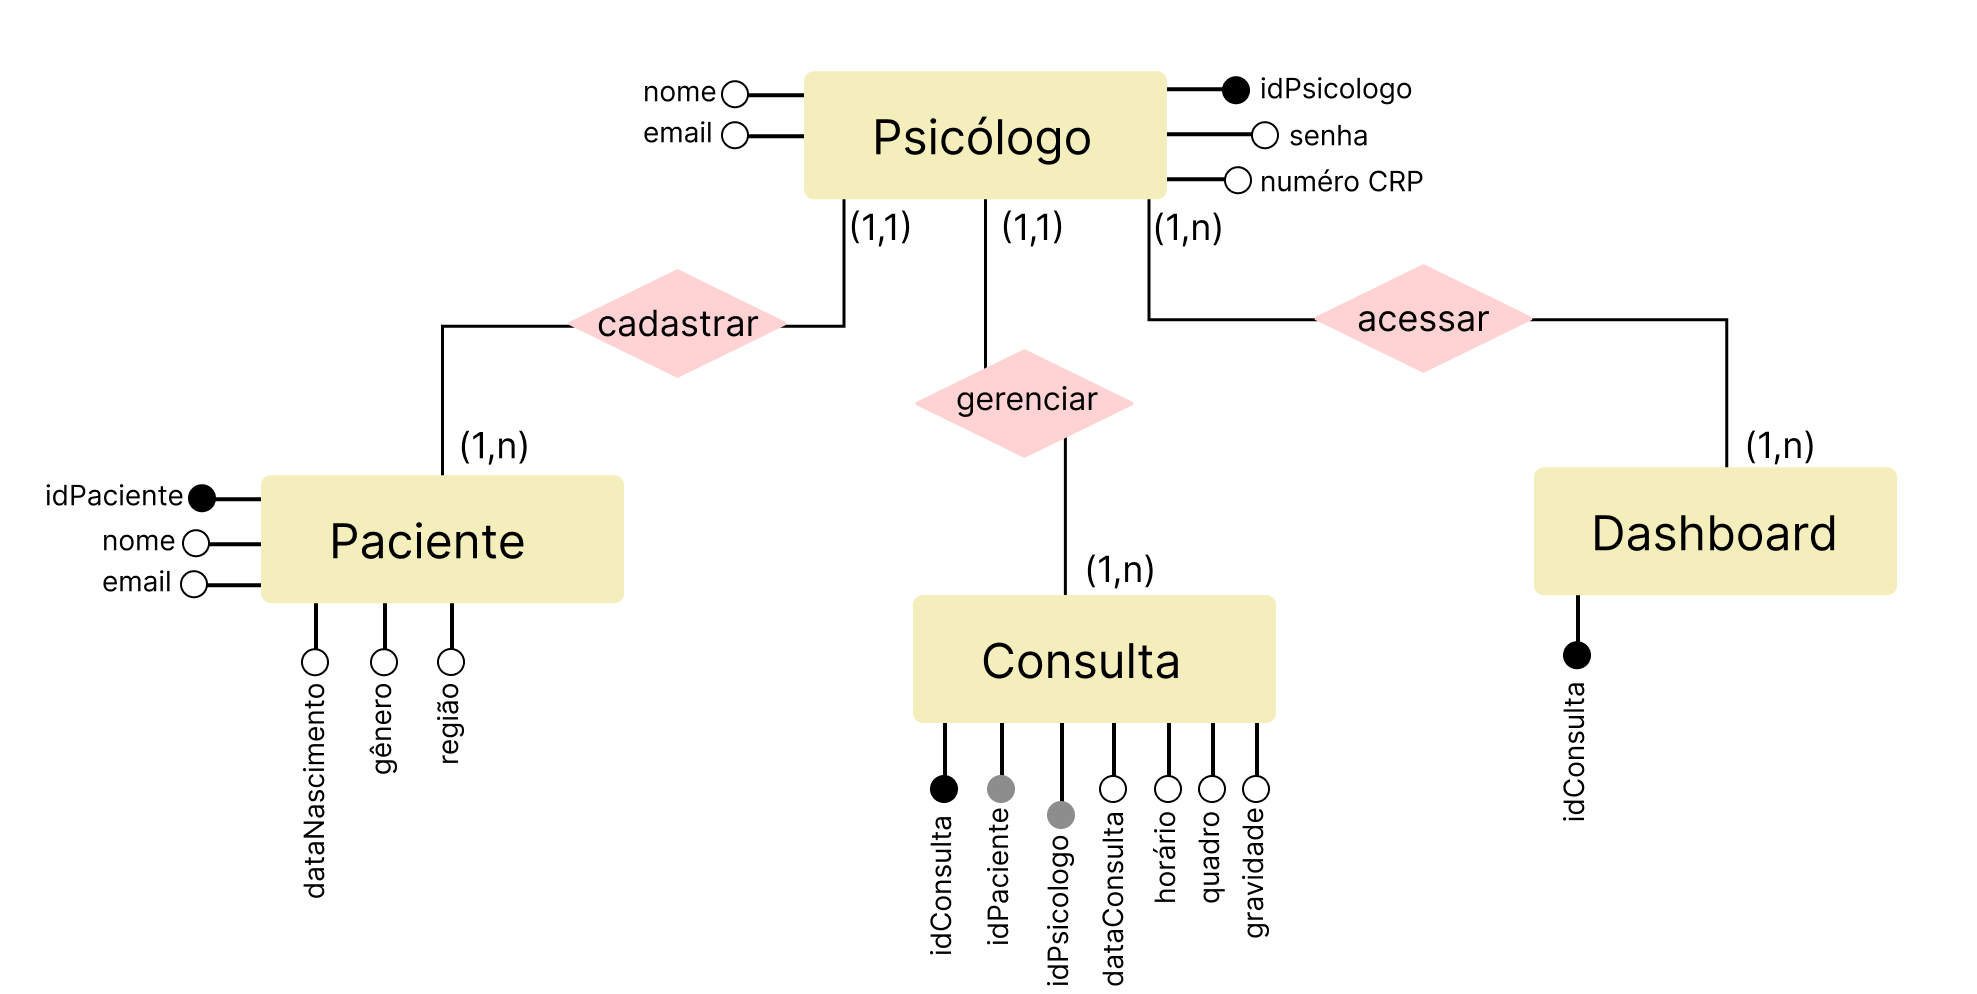
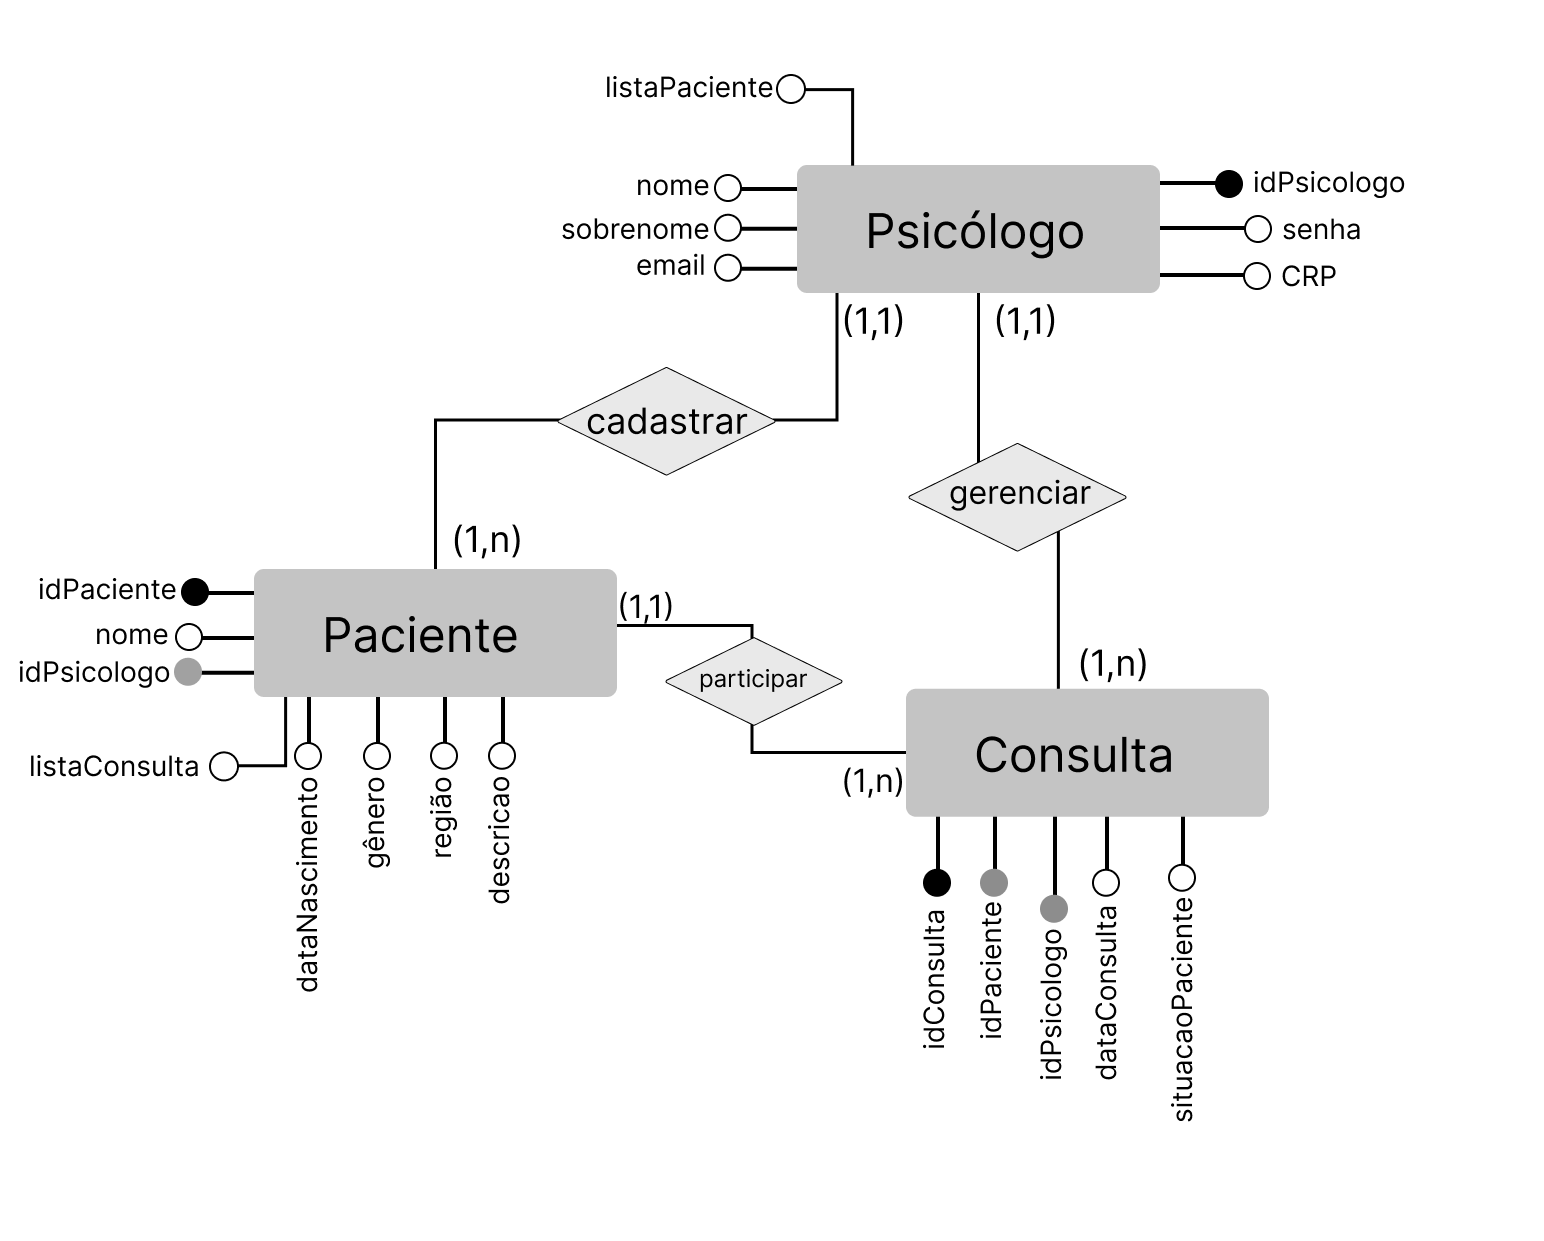
docs_att_gh-pages #71

Changed region(s): [[0.0, 0.4054, 0.9637, 0.998], [0.2176, 0.0624, 0.9016, 0.4678]]

diff --git a/docs/wiki/Documents/Documento_de_Arquitetura.md b/docs/wiki/Documents/Documento_de_Arquitetura.md
@@ -12,8 +12,11 @@
 | 1.1.2 | 09/03/2021  | Nilvan Peres | Atualização link's sumários |
 | 1.1.3 | 10/03/2021  |Lucas Lima | Adição do MTV ao Padrão Arquitetural |
 | 1.2.0 | 14/03/2021  | Antônio | Atualização geral do documento |  
-| 1.2.1 | 15/03/2021  | Davi | Atualização do topico 5 |
-| 1.2.2 | 16/03/2021  | Lucas | Atualização no tópico 2.2 | 
+| 1.2.1 | 15/03/2021  | Davi | Atualização do topico 5 | 
+| 1.2.2 | 16/03/2021  | Lucas Lima | Atualização no tópico 2.2 |
+| 1.2.3 | 23/03/2021  | Lucas Lima | Adição dos tópicos 6, 7 e 8 |
+| 1.2.4 | 24/03/2021  | Arthur Talles | Adição do tópico 2.3 |
+| 1.2.5 | 25/03/2021  | Davi Matheus | Mudanças no diagrama de Casos de Uso |
 ## Sumário
 [1 - Introdução](#1---introdução)
 * [1.1 - Objetivo](#1.1---objetivo)
@@ -25,6 +28,7 @@
 
 * [2.1 - Padrão Arquitetural](###2.1---Padrão-Arquitetural)
 * [2.2 - Tecnologias](#2.2---Tecnologias)
+* [2.3 - Diagrama de Pacotes](#2.3---Diagrama-de-Pacote)
 
 [3 - Metas e Restrições da Arquitetura](#3---Metas-e-Restrições-da-Arquitetura)
 
@@ -42,6 +46,14 @@
 * [5.1 - Diagrama de caso de Uso](#5.1---Diagrama-de-caso-de-Uso)
 * [5.2 - Atores de Caso de Uso](#5.2---Atores-de-Caso-de-Uso)
 * [5.3 - Descrições de Caso de Uso](#5.3---Descrições-de-Caso-de-Uso)
+
+[ 6 - Visão Lógica](#6---Visão-Lógica)
+
+[ 7 - Tamanho e Desempenho](#7---Tamanho-e-Desempenho)
+* [7.1 - Tamanho](#7.1---Tamanho)
+* [7.2 - Desempenho](#7.2---Desempenho)
+
+[ 8 - Qualidade](#8---Qualidade)
 ## 1 - Introdução
 
 ### 1.1 - Objetivo 
@@ -91,6 +103,7 @@ O Django utiliza o MTV (Modelo de template e visão). Toda esta arquitetura é i
 * Template: Páginas para visualização de dados. Normalmente, é aqui que fica o HTML que será renderizado nos navegadores;
 * View: Lógica de negócio. É aqui que determinamos o que irá acontecer em nosso projeto.
 
+
 ### 2.2 - Tecnologias
 |tecnologias | descrição |
 | ------------------- | ------------------- |
@@ -106,6 +119,12 @@ O Django utiliza o MTV (Modelo de template e visão). Toda esta arquitetura é i
 |CSS | Linguagem para estilização de uma interface web |
 |JavaScript |  Alia-se no desenvolvimento do frontend junto com HTML e CSS|
 |mySQL | Banco de dados relacional, será usado para gerir a base de dados|
+
+### 2.3 Diagrama de Pacotes
+
+<p align="center">
+<a href="https://ibb.co/W6dqcDk"><img src="https://i.ibb.co/KXQR9N2/Diagrama-Pacote-Back-end-e-Front-end.png" alt="Diagrama-Pacote-Back-end-e-Front-end" border="0"></a>
+</p>
 
 ### 3 - Metas e Restrições da Arquitetura
 
@@ -128,60 +147,51 @@ O Django utiliza o MTV (Modelo de template e visão). Toda esta arquitetura é i
 * ### Psicólogo 
 |Atributos| Propriedade | Tipo | Descrição|
 |-----|-----|------|-----|
-| idPsicologo | Chave primária obrigatória | String | Identificação do Psicólogo |
+| idPsicologo | Chave primária obrigatória | Integer | Identificação do Psicólogo |
 | nome | Obrigatório | String | Nome do Psicólogo |
 | email | Obrigatório | String | Email do Psicólogo |
-| nCRP | Obrigatório | String | Número do Conselho Regional do Psicólogo |
+| nCRP | Obrigatório | Integer | Número do Conselho Regional do Psicólogo |
 | senha | Obrigatório | String | Senha de login |
+| listaPacientes | Optativo | Paciente | Lista de pacientes do psicólogo|
 
 * ### Paciente
 |Atributos| Propriedade | Tipo | Descrição|
 |-----|-----|------|-----|
-| idPaciente | Chave primária obrigatória | String | Identificação do Paciente |
-| nome | Obrigatório | String | Nome do Paciente |
-| email | Obrigatório | String | Email do Paciente |
-| nascimento | Obrigatório | String | Nascimento do Paciente |
-| genero | Obrigatório | String | Gênero do Paciente |
-| regiao | Obrigatório | String | Região onde mora o Paciente |
+| idPaciente | Chave primária obrigatória | Integer | Identificação do paciente |
+| idPsicologo | Chave estrangeira obrigatória | Integer | Identificação do psicólogo |
+| nome | Obrigatório | String | Nome do paciente |
+| nascimento | Obrigatório | Date | Data de nascimento do paciente |
+| genero | Obrigatório | Char | Gênero do paciente |
+| regiao | Obrigatório | String | Região onde mora o paciente |
+| descricao | Optativo | String | Descrição do caso do paciente |
+| listaConsulta | Optativo | Consulta | Lista das consultas do paciente |
+
 
 * ### Consulta
 |Atributos| Propriedade | Tipo | Descrição|
 |-----|-----|------|-----|
-| idConsulta | Chave primária obrigatória | String | Identificação da Consulta |
-| idPaciente | Chave estrangeira obrigatória | String | Identificação do Paciente |
-| idPsicologo | Chave estrangeira obrigatória | String | Identificação do Psicólogo |
+| idConsulta | Chave primária obrigatória | Integer | Identificação da Consulta |
+| idPaciente | Chave estrangeira obrigatória | Integer | Identificação do Paciente |
+| idPsicologo | Chave estrangeira obrigatória | Integer | Identificação do Psicólogo |
 | dataConsulta| Obrigatório | String| Data que ocorre a consulta |
-| horário |Obrigatório | String | Horário que ocorre a consulta |
-| quadro |Obrigatório | String | Quadro geral do problema do paciente na consulta |
-| gravidade |Obrigatório | String | Gravidade desse problema |
-
-* ### Dashboard
-|Atributos| Propriedade | Tipo | Descrição|
-|-----|-----|------|-----|
-| idDashboard | Chave primária obrigatória | String | Identificação da Dashboard |
-
-
+| situacaoPaciente | Obrigatório | String | Situação mental do paciente problema |
 ### 4.1.2 - Relacionamentos
 
 **Psicólogo** -- cadastra/exclui -- **Paciente**: Um psicólogo cadastra ou exclui os pacientes. (Cardinalidade 1:N)
 
 **Psicólogo** -- cadastra/exclui -- **Psicólogo**: Um psicólogo realiza seu próprio cadastro e eventual exclusão do mesmo. (Cardinalidade 1:1)
 
-**Psicólogo** -- gera -- **Consulta**: Psicólogo gera laudo de uma consulta com paciente. (Cardinalidade 1:N)
+**Psicólogo** -- cadastra/exclui -- **Consulta**: Psicólogo cadastra ou exclui consultas de um paciente. (Cardinalidade 1:N)
 
 **Psicólogo** -- insere -- **Paciente**: Psicólogo insere novos dados de uma consulta com paciente. (Cardinalidade 1:N)
 
-**Psicólogo** -- acessa -- **Consulta**: Psicólogo acessa laudo de uma consulta com paciente. (Cardinalidade 1:N)
+**Psicólogo** -- acessa -- **Consulta**: Psicólogo altera dados de uma consulta com paciente. (Cardinalidade 1:N)
 
 **Psicólogo** -- acessa -- **Paciente**: Psicólogo acessa seus pacientes e respectivos dados. (Cardinalidade 1:N)
-
-**Psicólogo** -- acessa -- **Dashboard**: Psicólogo acessa Dashboard de monitoramento. (Cardinalidade 1:N)
-
-
 ### 4.2 - Diagrama Entidade Relacionamento (DER)
 
 <p align="center">
-<a href="https://ibb.co/1QWxHp3"><img src="https://i.ibb.co/PjH8BbR/DER.png" alt="DER" border="0"></a>	
+<a <a href="https://ibb.co/3d3jdGj"><img src="https://i.ibb.co/xLkBLPB/DER.png" alt="DER" border="0" width="60%" height="60%" ></a>	
 </p>
 
 
@@ -190,7 +200,7 @@ O Django utiliza o MTV (Modelo de template e visão). Toda esta arquitetura é i
 ### 5.1 - Diagrama de caso de Uso
 
 <p align="center">
-<a href="https://ibb.co/L016ZBk"><img src="https://i.ibb.co/zmZb4Cn/Caso-de-uso.png" alt="Caso-de-uso" border="0"></a>
+<a href="https://ibb.co/Hz4fdDh"><img src="https://i.ibb.co/DCWHpDr/Caso-De-Uso.png" alt="Caso-De-Uso" border="0" width="80%" height="80%" ></a>
 </p>
 
 
@@ -205,12 +215,40 @@ O Django utiliza o MTV (Modelo de template e visão). Toda esta arquitetura é i
 
 |Casos de uso| Ator | Descrição|
 |-----|-----|------|
-| UC01 - Efeituar Login | Psicologo | O psicologo poderá realizar seu cadastro e dar login e logout na plataforma quando quiser |
-| UC02 - Cadastrar/Exlcluir paciente | Psicologo | O psicólogo poderá acessar cadastrar ou exluir um paciente em específico |
-| UC02 - Alterar perfil Psicologo | Psicólogo | O psicologo poderá alterar seu perfil quando desejar |
-| UC03 - Alterar perfil Paciente| Psicologo | O psicologo poderá alterar o perfil dos seus pacientes quando desejar |
-| UC04 - Mostrar pacientes cadastrados | Psicologo |  O psicólogo poderá acessar e visualizar as informações de um paciente em específico   |
-| UC04 - Acessar laudo dos pacientes | Psicologo | O psicólogo poderá acessar os laudos que ele preencher |
-| UC05 - Adicionar novos laudos a pacientes | Psicologo | O psicólogo pode inserir os laudos dos seus pacientes |
-| UC06 - Acessar Dashboards|  Psicologo | O psicólogo poderá ver os dashbords de saúde mental disponiblizados pela comunidade |
-| UC07 - Acessso aos quadros evolutivos | O psicólogo poderá acessar o quadro evolutivo de um paciente específico | 
+| UC01 - Editar Dados da Conta | Psicologo | O psicologo poderá realizar seu cadastro e dar login e logout na plataforma quando quiser |
+| UC02 - Acesar a Pagina do Psicologo | Psicologo | O psicologo poderá acessar a pagina cadastra, fazer o login e realizar as determinadas funções presentes no site.
+| UC03 - Cadastrar/Exlcluir paciente | Psicologo | O psicólogo poderá acessar cadastrar ou exluir um paciente em específico |
+| UC04 - Alterar dados do  Paciente| Psicologo | O psicologo poderá alterar o perfil dos seus pacientes quando desejar |
+| UC05 - listar Pacientes | Psicologo |  O psicólogo poderá acessar e visualizar as informações de um paciente em específico   |
+| UC06 - Acessar consulta dos pacientes | Psicologo | O psicólogo poderá acessar as consultas que ele preencher |
+| UC07 - Alterar relatorio Consulta | Psicologo | O psicólogo podera alterar os dados da consulta |
+| UC08 - Acessar Dashboards |  Psicologo | O psicólogo poderá ver os dashbords de saúde mental disponiblizados pela comunidade |
+
+## 6 - Visão Lógica
+
+O psicólogo acessa o site através de um computador ou celular, realiza seu cadastro com CRP, faz o login, cadastra seus pacientes e atualiza os dados. Após ter os dados atualizados com as informações adquiridas na consulta, são gerados relatórios com infográficos.\
+Os dados do psicólogo e dos clientes serão armazenados no banco de dados. No momento em que o psicólogo atualizar os dados, automaticamente os infográficos serão gerados e disponibilizados para que sejam vistos. 
+
+## 7 - Tamanho e Desempenho
+### 7.1 - Tamanho
+O software é feito para rodar diretamente no navegador, sem qualquer tipo de instalação fora o próprio navegador.
+
+### 7.2 - Desempenho
+Basicamente todas as ações realizadas no front-end enviam requisições ao back-end para serem feitas. Por exemplo, no cadastro do psicólogo é feita uma requisição ao back-end para guardar os dados no banco de dados e utilizar posteriormente. Não há requisitos computacionais para que o site seja aberto.
+
+## 8 - Qualidade
+O site terá uma interface simples, facilitando o acesso para qualquer pessoa, mesmo que ela não tenha muita facilidade com tecnologia, e garantindo a plena funcionalidade proposta. Nada do back-end será mostrado ao psicólogo, apenas a parte inteligível do front-end.
+
+## Referências 
+
+>  Django Documentation. Disponivel em: < [https://docs.djangoproject.com/en/3.1/](https://docs.djangoproject.com/en/3.1/) > Acesso em: 17 de Fevereiro de 2021 
+
+> React Documentation. Disponivel em: < [https://pt-br.reactjs.org/docs/getting-started.html](https://pt-br.reactjs.org/docs/getting-started.html) > Acesso em: 17 de Fevereiro de 2021
+
+> About PostgreSQL. Disponível em: < [https://www.postgresql.org/about/](https://www.postgresql.org/about/) > Acesso em 17 de Março de 2021
+
+> Documento de arquitetura Acácia. Disponível em: < [https://fga-eps-mds.github.io/2019.2-Acacia/#/architecture_document](https://fga-eps-mds.github.io/2019.2-Acacia/#/architecture_document) > Acesso em: 25 de Fevereiro de 2021
+
+> Documento de arquitetura ArBC. Disponível em: < [ https://jlucassr.github.io/ArBC-Pages/mds/Documento_de_arquitetura/ ](https://jlucassr.github.io/ArBC-Pages/mds/Documento_de_arquitetura/) > Acesso em: 25 de Fevereiro de 2021
+
+> Quickstart - Django REST framework. Disponivel em: < [https://www.django-rest-framework.org/tutorial/quickstart/](https://www.django-rest-framework.org/tutorial/quickstart/) > acesso em: 25 de Fevereiro de 2021

diff --git a/docs/assets/images/Roadmaps/roadmap_DevTeam.md b/docs/assets/images/Roadmaps/roadmap_DevTeam.md
@@ -1,0 +1,21 @@
+## Histórico de revisão
+
+|       Data         |versão                       |Descrição                        |Autor|
+|----------------|-------------------------------|-----------------------------|---------------------|
+|20/02/2021|1.0.0           |Criação do roadmap Devops              |Davi Matheus|
+
+## Realese 01
+
+- Estudar Agile/Scrum.
+- Estudar Open Source
+- Escolha e configuração de tecnologias e ferramentas para o projeto.
+- atualização do documento de arquitetura.
+- Estudar e escolher melhores ferramentas para uma integração continua.
+- Treinamento e implementação do docker.
+- Analisar e Implementar Possíveis ideias de RoadMaps
+- Organizar e implementar front/back
+- Protitpo de Alta/Baixa Fidelidade
+- Estudo das Ferramentes/Framework Back/Front
+- Atualização do README
+
+<p align = "center"> &emsp;&emsp; <img src="../assets/images/RoadMap_DevTeam.png" width="435" height="776"/> </p>

diff --git a/docs/assets/images/Roadmaps/roadmap_ScrumMaster.md b/docs/assets/images/Roadmaps/roadmap_ScrumMaster.md
@@ -1,0 +1,24 @@
+## Histórico de revisão
+
+|       Data         |versão                       |Descrição                        |Autor|
+|----------------|-------------------------------|-----------------------------|---------------------|
+|25/02/2021|1.0.0           |Criação do roadmap ScrumMaster              |Nilvan Peres|
+
+
+## Realese 01
+
+* Definição do escopo inicial.
+* Implementação do github pages para os documentos do projeto.
+* Elaboração de templates para padronização.
+* Plannings e reviews das sprints.
+* Elaborar plano de comunicação da equipe e monitoramento da mesma.
+* Criação do TAP.
+* Criaçaõ da EAP.
+* Destrinchar requisitos.
+* Elabaração de plano de gerenciamento de riscos/custos.
+* Monitoração da metodologia e risco projeto.  
+   
+
+<p align = "center"> &emsp;&emsp; <img src="../assets/images/RoadMap_SM.png" width="435" height="776"/> </p>
+
+## Release 02

diff --git a/docs/assets/images/Roadmaps/roadmap_ProductOwner.md b/docs/assets/images/Roadmaps/roadmap_ProductOwner.md
@@ -1,0 +1,29 @@
+# RoadMap ProductOwner
+
+## Histórico de revisão
+| Data   | Versão | Modificação  | Autor  |
+| :- | :- | :- | :- |
+| 24/02/2021 | 1.0.0 | Abertura do Roadmap do Product Owner |  Davi Matheus |
+
+### Release 1
+
+-   Definir escopo inicial.
+-   Elaborar Product Backlog.
+-   Elaborar GitHub.
+-   Priorizar Docker.
+-   Priorizar Product Backlog para o uso das sprints.
+-   Definir issues, sprints e metas para elaboração do projeto.
+-   Gerenciar a equipe. 
+-   Analise de Riscos
+-   Atualizar o produto de acordo com a evolução.
+-   Elaboração do Canvas. 
+-   Estudo Heruko/lingugem e Frameworks
+-   Documentação da Metodologia 
+-   Atualização do Repositorio/GitHub Pages
+-   Revisão de Docs para a Release 1
+
+
+<p align = "center"> &emsp;&emsp; <img src="../assets/images/RoadMap_PO.png" width="435" height="776"/> </p>
+
+## Release 2 
+
